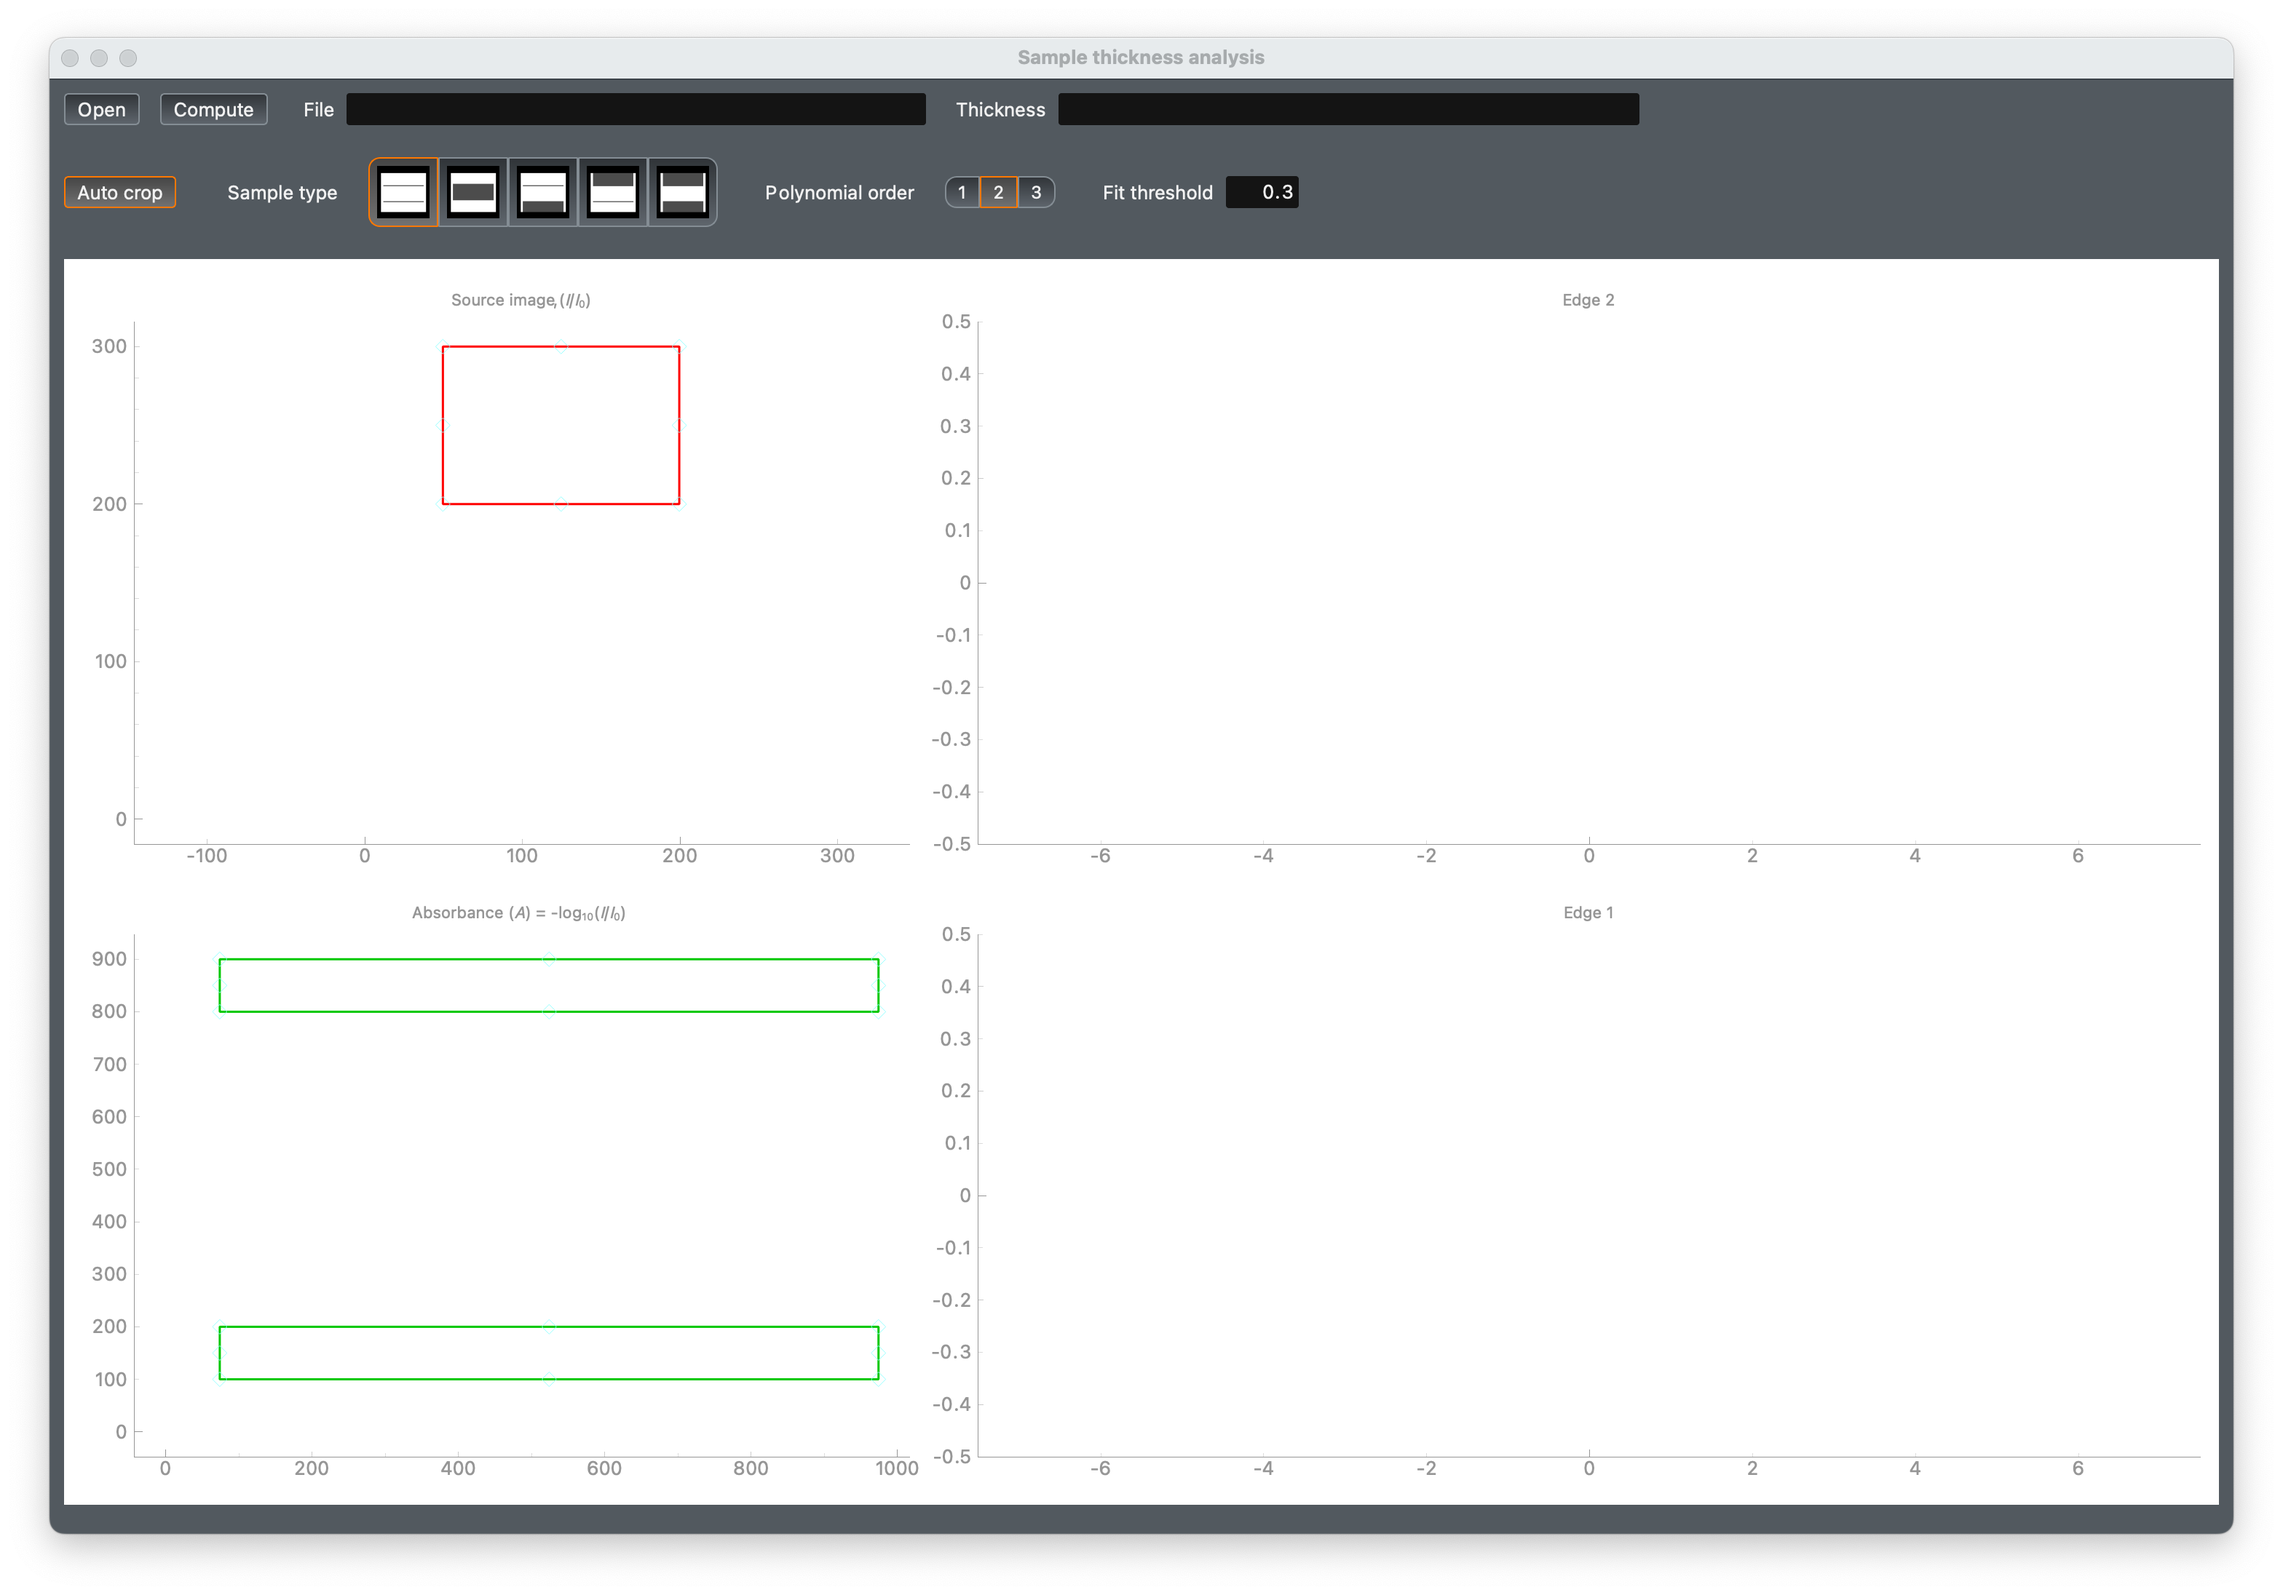
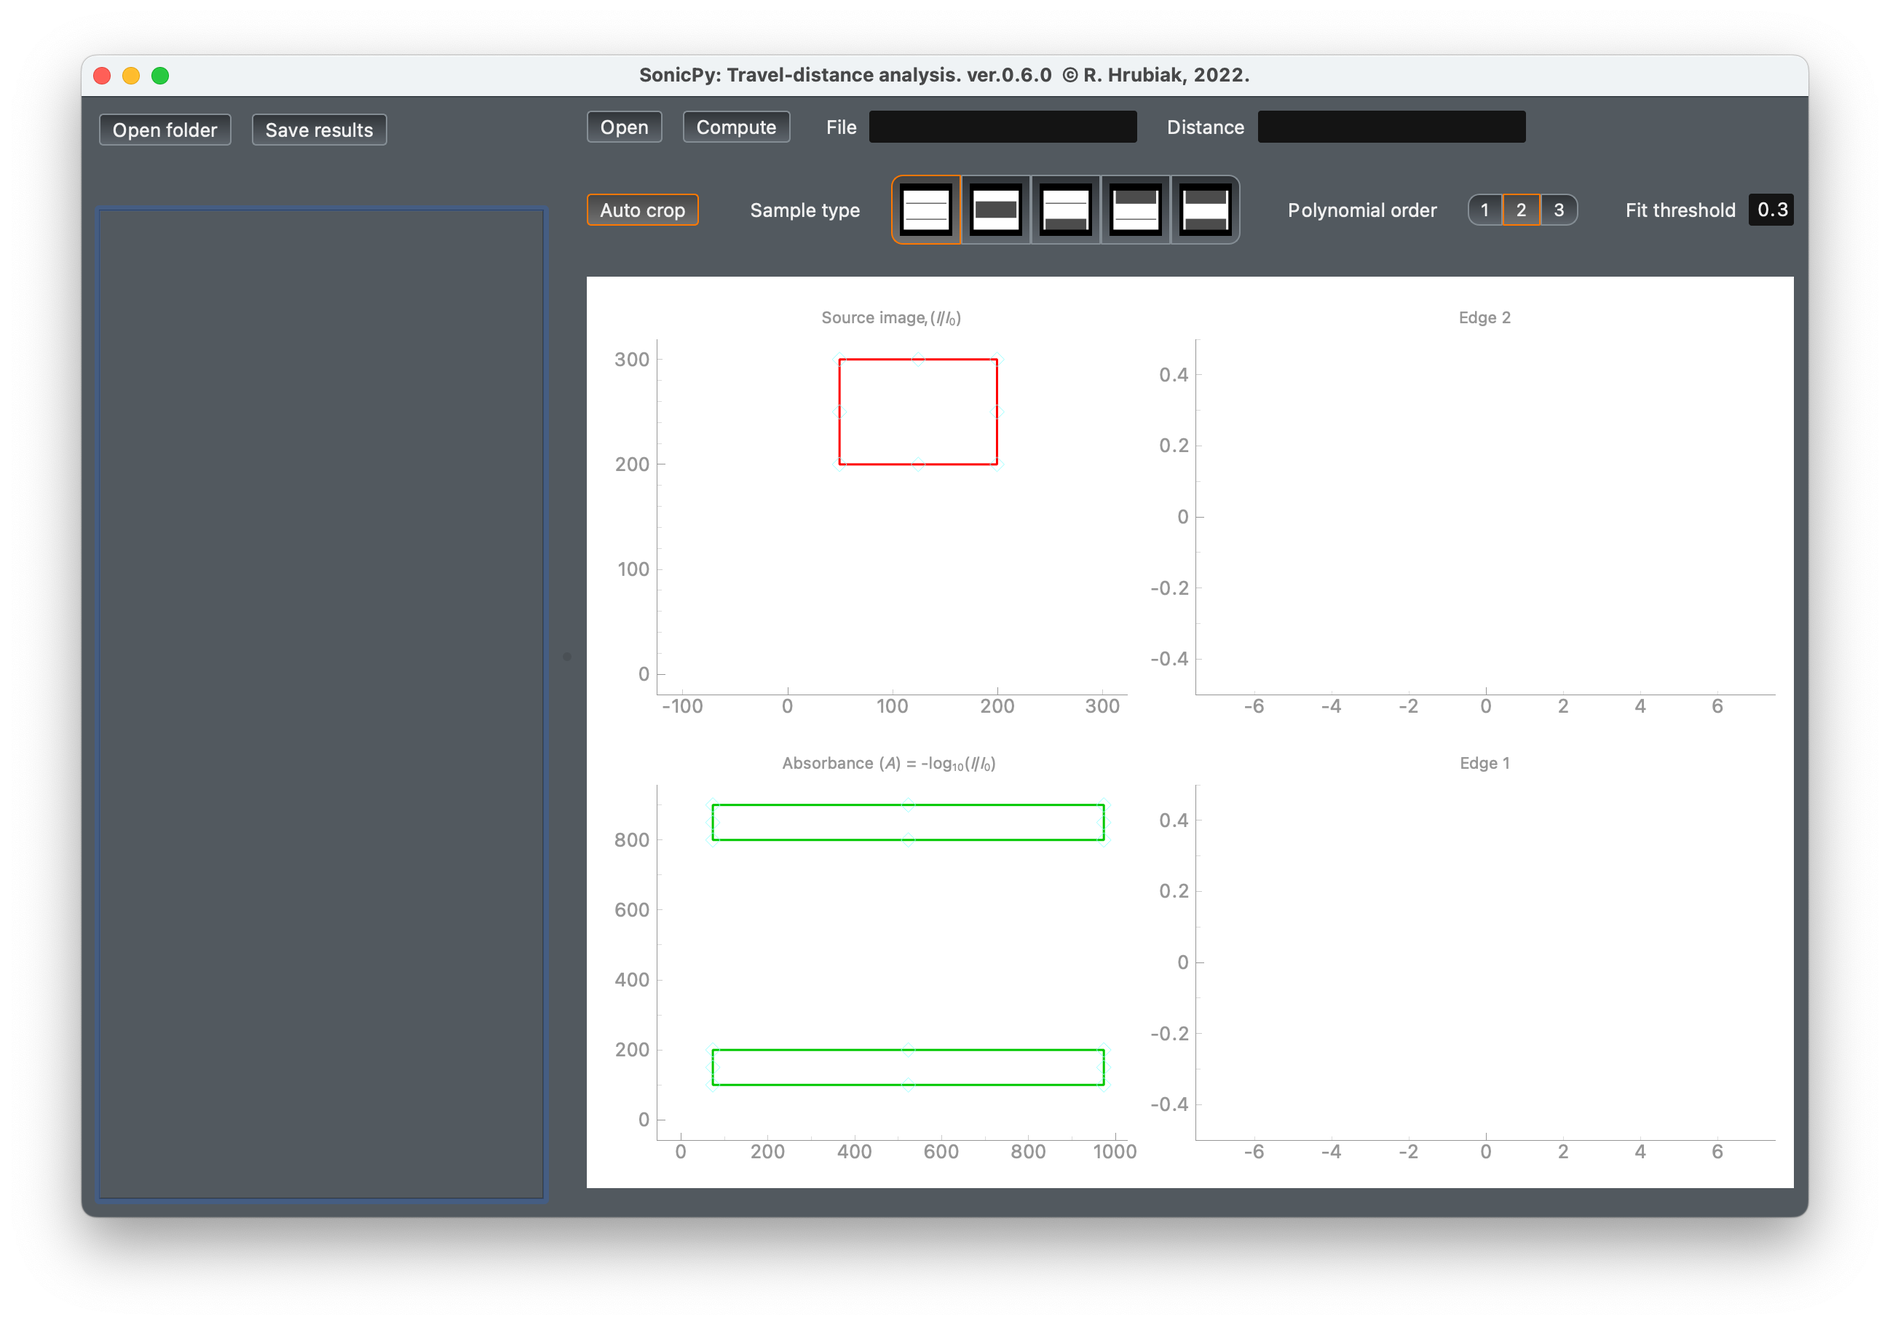
docs

diff --git a/ia/controllers/ImageAnalysisController.py b/ia/controllers/ImageAnalysisController.py
@@ -49,8 +49,8 @@ class ImageAnalysisController(QObject):
         self.make_connections()
         self.display_window.raise_widget()
 
-        path = '/Users/hrubiak/Globus/hpcat/16BMB/2021-2/s16bmb-20210717-e244302-Aihaiti/sam2/images'
-        self.set_folder_path(path)
+        #path = '/Users/hrubiak/Globus/hpcat/16BMB/2021-2/s16bmb-20210717-e244302-Aihaiti/sam2/images'
+        #self.set_folder_path(path)
 
         #fname = os.path.join(resources_path, '6031psi_049.tif')
         #self.update_data(filename=fname)

diff --git a/ia/__init__.py b/ia/__init__.py
@@ -1,6 +1,6 @@
 # -*- coding: utf8 -*-
 #
-__version__ = "0.5.0"
+__version__ = "0.6.0"
 
 import os
 from pathlib import Path

diff --git a/docs/source/ia_gui.rst b/docs/source/ia_gui.rst
@@ -1,9 +1,14 @@
 
 
-.. _gui_im:
+.. _ia_gui_im:
 
 GUI basics
 ----------
+
+- :ref:`Control panel <ia_control_panel>`
+- :ref:`File list <ia_file_list>`
+- :ref:`Plot panels  <ia_plot_panels>`
+
 
 .. figure:: /images/ia/ia_start.png
    :alt: image_analysis_start_screen 
@@ -12,20 +17,37 @@ GUI basics
     
    Image analysis window
 
+.. _ia_control_panel:
+
 Control panel 
 ^^^^^^^^^^^^^
 
-- :ref:`Open <open>`
-- :ref:`Compute  <compute>`
-- :ref:`File  <opened_file>`
-- :ref:`Thickness <thickness>`
-- :ref:`Auto crop <autocrop>`
-- :ref:`Sample type <sample_type>`
-- :ref:`Polynomial order <poly_order>`
-- :ref:`Fit threshold <fit_theshold>`
+- :ref:`Open folder <ia_open_folder>`
+- :ref:`Save results  <ia_save_results>`
+- :ref:`Open <ia_open>`
+- :ref:`Compute  <ia_compute>`
+- :ref:`File  <ia_opened_file>`
+- :ref:`Thickness <ia_thickness>`
+- :ref:`Auto crop <ia_autocrop>`
+- :ref:`Sample type <ia_sample_type>`
+- :ref:`Polynomial order <ia_poly_order>`
+- :ref:`Fit threshold <ia_fit_theshold>`
 
+.. _ia_open_folder:
 
-.. _open:
+Open folder
+***********
+
+Click :guilabel:`Open folder` button to navigate to and select the ``Images`` folder. The folder should contain radiography images with an extension ``*.tif``.
+
+.. _ia_save_results:
+
+Save results
+************
+
+Click :guilabel:`Save results` button to write out the results to a csv spreadsheet.
+
+.. _ia_open:
 
 Open
 ****
@@ -34,7 +56,7 @@ Click :guilabel:`Open` button to navigate to and select an radiography image fil
 radiography files are saved in the ``Images`` folder
 and have an extension ``*.tif``.
 
-.. _opened_file:
+.. _ia_opened_file:
 
 Opened file
 ***********
@@ -43,14 +65,14 @@ Displays the file name of the opened image.
 
 .. hint:: The file name can be copied by ``ctrl+C`` and pasted into a spreadsheet program, e.g. Excel.
 
-.. _compute:
+.. _ia_compute:
 
 Compute
 *******
 
-The program extracts positions of the lower (Edge 1) and upper (Edge 2) edges by fitting a polynomial to edge pixel positions weighted by the the pixel intensities. 
+The :guilabel:`Compute` button is a checkable button. When clicked the button will be in a checked state and highlighted orange. Clicking again unchecks the button. While in checked state the distances will be calculated automatically after selecting a file. The program extracts positions of the lower (Edge 1) and upper (Edge 2) edges by fitting a polynomial to edge pixel positions weighted by the the pixel intensities. 
 
-.. _thickness:
+.. _ia_thickness:
 
 Thickness
 *********
@@ -61,7 +83,7 @@ The thickness of the sample and standard deviation are displayed in units of nub
       \ :math:`{\mu}m / pixel` resolution for your camera to calculate the thickness 
       The relolution can be found in your calibration folder, typically in a file :file:`manta_resolution.docx`.
 
-.. _autocrop:
+.. _ia_autocrop:
 
 Auto crop
 *********
@@ -75,7 +97,7 @@ If you have manually adjusted the red box position and would like to go back to 
 select the :guilabel:`Auto crop` button. 
    
 
-.. _sample_type:
+.. _ia_sample_type:
 
 Sample type
 ***********
@@ -93,7 +115,7 @@ For exaple, the image below has two thin gold foils as edges, in this case we se
       :width: 250px
       :align: center
 
-.. _poly_order:
+.. _ia_poly_order:
 
 Polynomial order
 ****************
@@ -106,7 +128,7 @@ If an edge is very deformed try to use the option of polynomial order 3.
    standard deviation will reflect the thickness uncertainty and 
    can be propagated to the sound velocity uncertainty.
 
-.. _fit_theshold:
+.. _ia_fit_theshold:
 
 Fit threshold
 *************
@@ -114,10 +136,20 @@ Fit threshold
 Choose the highest pixel threshold for the fit. The smaller it is, the brightest the pixels considered.
 
 
+.. _ia_file_list:
+
+File list
+^^^^^^^^^
+The file list panel displays the files in the currently opened folder. Clicking on a file selects it for processing. Calculated distance and uncertainty will be displayed next to a selected file.
+
+
+
+.. _ia_plot_panels:
+
 Plot panels
 ^^^^^^^^^^^
 
-.. _source_image:
+.. _ia_source_image:
 
 Source image 
 ************
@@ -126,7 +158,7 @@ Source image
 
    The red box delimits the relevant part of the image that will be used for finding the edges.
 
-.. _crop:   
+.. _ia_crop:   
 
    .. note:: The red box can be adjusted by dragging the 
              diamond handles using a mouse. The region-of-interest selected by the red box
@@ -137,17 +169,17 @@ Source image
       :width: 500px
       :align: center
       
-.. _absorbance:
+.. _ia_absorbance:
 
 Edge selection
 **************
 
    The bottom left panel displays the computed absorbance, (A) = -log\ :sub:`10` (I/I\ :sub:`0`), taken 
-   from the part of the image selected by the red box in the :ref:`Source image <source_image>`. 
+   from the part of the image selected by the red box in the :ref:`Source image <ia_source_image>`. 
 
    The program will automatically locate the top and the bottom edges and overlay each edge with a green box.
 
-.. _edge_selection:  
+.. _ia_edge_selection:  
 
    .. note:: 
       If the automatic edge finding fails, please select the edges manually. 
@@ -159,7 +191,7 @@ Edge selection
       :width: 500px
       :align: center
 
-.. _edge_result:
+.. _ia_edge_result:
 
 Edge 1 (bottom edge) and Edge 2 (top edge)
 ******************************************
@@ -168,9 +200,9 @@ The top right and the bottom right panels will display the edge fit results (red
 the observed edges. Check that the fit is good by checking that the red dashed lines match well the positions of the edges. 
 If the fit is not good, it may help to adjust the following:
 
-   *  :ref:`Edge selection <edge_selection>`
-   *  :ref:`Fit threshold <fit_theshold>`
-   *  :ref:`Polynomial order <poly_order>`
+   *  :ref:`Edge selection <ia_edge_selection>`
+   *  :ref:`Fit threshold <ia_fit_theshold>`
+   *  :ref:`Polynomial order <ia_poly_order>`
  
    .. figure:: /images/ia/edges_fitted.png
       :alt: edges_fitted

diff --git a/docs/source/ia_walkthrough.rst b/docs/source/ia_walkthrough.rst
@@ -6,7 +6,7 @@ Example walkthrough
 .. _step1:
 
 1. Click :guilabel:`Open` button in the upper left corner. 
-   Navigate to location of image file and open the file. The :ref:`source image <source_image>` will be displayed
+   Navigate to location of image file and open the file. The :ref:`source image <ia_source_image>` will be displayed
    in the top left image panel. 
 
    .. figure:: /images/ia/i_0.png
@@ -15,35 +15,35 @@ Example walkthrough
       :align: center
   
    .. note:: 
-      The relevant part of the image is automatically selected, but manual :ref:`selection adjustment <crop>` may be needed.
+      The relevant part of the image is automatically selected, but manual :ref:`selection adjustment <ia_crop>` may be needed.
              
    .. hint::
       Use the mouse scroll-wheel to zoom in and out of any of the images; the little :guilabel:`A` button in the lower left resets the zoom.
 
    
 
-2. The program displays the :ref:`selected edges <absorbance>`
+2. The program displays the :ref:`selected edges <ia_absorbance>`
    automatically. Adjustable green boxes are overlaid over the selected edges.
 
    .. note:: 
       Make  sure make sure the edges are selected correctly by the green boxes.
-      The green boxes can be :ref:`manually resized and/or re-positioned <edge_selection>`.
+      The green boxes can be :ref:`manually resized and/or re-positioned <ia_edge_selection>`.
 
    .. figure:: /images/ia/edge_selection.png
       :alt: edge_selection
       :width: 500px
       :align: center
 
-3. Select the :ref:`sample edge type <sample_type>` based on your particular sample configuration. 
+3. Select the :ref:`sample edge type <ia_sample_type>` based on your particular sample configuration. 
 
 4. Once image cropped properly, click :guilabel:`Compute` in upper left corner. The fitted edge polynomials
-   will be displayed in the :ref:`Edge panels <edge_result>`. 
+   will be displayed in the :ref:`Edge panels <ia_edge_result>`. 
 
    .. note:: 
-      You may need to adjust the :ref:`fit threshold <fit_theshold>` for edges with non-uniform contrast. 
+      You may need to adjust the :ref:`fit threshold <ia_fit_theshold>` for edges with non-uniform contrast. 
 
    .. note:: Ideally the edges should be fit with a polynomial of order 1 or 2. 
-      However if the edge is not straight you can try to use a :ref:`higher order polynomial <poly_order>`.
+      However if the edge is not straight you can try to use a :ref:`higher order polynomial <ia_poly_order>`.
      
    .. figure:: /images/ia/edges_fitted.png
       :alt: edges_fitted
@@ -51,20 +51,13 @@ Example walkthrough
       :align: center
 
 5. The thickness of the sample and standard deviation are displayed at the top of the 
-   window in the units of number of pixels.  
-
-   .. hint:: The file name and thickness output can be copied by ``ctrl+C`` and pasted into a 
-      spreadsheet program, e.g. Excel.
-
-6. Repeat steps 1-5 for each image that you recorded and record the 
-   fitted distances and standard deviations 
-   in a spreadsheet
-   
+   window in the units of number of pixels. 
 
 
-   .. note:: If you recorded multiple images per data-point (e.g. left + center + right), 
-      use may need to compute the average thickness for the sound velocity estimation.
+6. Repeat steps 1-5 for each image that you recorded. 
 
+   .. note:: Other files in the same folder can be selected by clicking on other filenames in the :ref:`File list <ia_file_list>` in left panel. No need to click :guilabel:`Open` button to load each file.
 
+7. Click :guilabel:`Save results` button to export the calculate distances and uncertainties to a ``.csv`` file.
 
 

diff --git a/docs/source/ia.rst b/docs/source/ia.rst
@@ -5,7 +5,7 @@ Travel-distance analysis
 
 SonicPy: Travel-distance program is used to determine the sample thickness which corresponds to the ulstrasound 
 wave travel distance (\ :math:`d`).
-This chapter describes the :ref:`GUI basics <gui_im>` of the Image analysis software and provides an :ref:`example Workflow <ia_workflow>` for determining the sample thickness.
+This chapter describes the :ref:`GUI basics <ia_gui_im>` of the Image analysis software and provides an :ref:`example Workflow <ia_workflow>` for determining the sample thickness.
 
 
 .. toctree::
